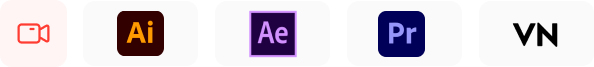
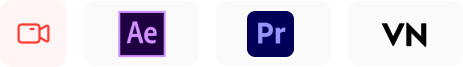
dsdsd

diff --git a/index.html b/index.html
@@ -83,9 +83,9 @@
         <marquee class="marq"  direction="left" loop="">
             <div class="software-logos-wrapper">
                 <ul>
-                    <li><img src="images/codings.png"></li>
-                    <li><img src="images/designings.png"></li>
-                    <li><img src="images/editing.png"></li>
+                    <li><img src="images/codings.png" class="img-fluid"></li>
+                    <li><img src="images/designings.png" class="img-fluid"></li>
+                    <li><img src="images/editing.png" class="img-fluid"></li>
                 </ul>
             </div>
         </marquee>
@@ -123,7 +123,7 @@
                     <img src="images/04.png">
                 </div>
                 <div class="gallery-item-content">
-                    <h6>Website Designing</h6>
+                    <h6>PHP Development (6 Months)</h6>
                     <div class="course-info-wrapper">
                         <div class="course-info">
                             <i class="bi bi-journal-bookmark-fill"></i> Lesson : 6
@@ -146,7 +146,7 @@
                     <img src="images/09.png">
                 </div>
                 <div class="gallery-item-content">
-                    <h6>Website Designing</h6>
+                    <h6>Graphic Designing (6 Months)</h6>
                     <div class="course-info-wrapper">
                         <div class="course-info">
                             <i class="bi bi-journal-bookmark-fill"></i> Lesson : 6
@@ -169,7 +169,7 @@
                     <img src="images/12.png">
                 </div>
                 <div class="gallery-item-content">
-                    <h6>Website Designing</h6>
+                    <h6>Social Media Management</h6>
                     <div class="course-info-wrapper">
                         <div class="course-info">
                             <i class="bi bi-journal-bookmark-fill"></i> Lesson : 6
@@ -192,7 +192,7 @@
                     <img src="images/15.png">
                 </div>
                 <div class="gallery-item-content">
-                    <h6>Website Designing</h6>
+                    <h6>IT Course for Entrepreneurship in 2024</h6>
                     <div class="course-info-wrapper">
                         <div class="course-info">
                             <i class="bi bi-journal-bookmark-fill"></i> Lesson : 6
@@ -215,7 +215,7 @@
                     <img src="images/16.png">
                 </div>
                 <div class="gallery-item-content">
-                    <h6>Website Designing</h6>
+                    <h6>SEO (Search Engine Optimization) Course for 2024</h6>
                     <div class="course-info-wrapper">
                         <div class="course-info">
                             <i class="bi bi-journal-bookmark-fill"></i> Lesson : 6
@@ -238,7 +238,7 @@
                     <img src="images/06.png">
                 </div>
                 <div class="gallery-item-content">
-                    <h6>Website Designing</h6>
+                    <h6>Marketing Management ( Sales & Support )</h6>
                     <div class="course-info-wrapper">
                         <div class="course-info">
                             <i class="bi bi-journal-bookmark-fill"></i> Lesson : 6
@@ -261,7 +261,7 @@
                     <img src="images/17.png">
                 </div>
                 <div class="gallery-item-content">
-                    <h6>Website Designing</h6>
+                    <h6>Digital Marketing</h6>
                     <div class="course-info-wrapper">
                         <div class="course-info">
                             <i class="bi bi-journal-bookmark-fill"></i> Lesson : 6

diff --git a/css/style.css b/css/style.css
@@ -130,6 +130,7 @@ h1.banner-title:before{
 .software-logos-wrapper ul li{
     list-style: none;
     display: inline-block;
+    margin: 0px 20px;
 }
 .gallery .tags-bar{
     justify-content: flex-end !important;
@@ -967,6 +968,9 @@ ul.arrow-list{
 }
 @media only screen and (max-width:1440px){
   
+  .course-info {
+    font-size: 12px;
+  }
   .navbar-expand-md .navbar-nav .nav-link{
     padding: 15px 10px;
     font-size: 18px;
